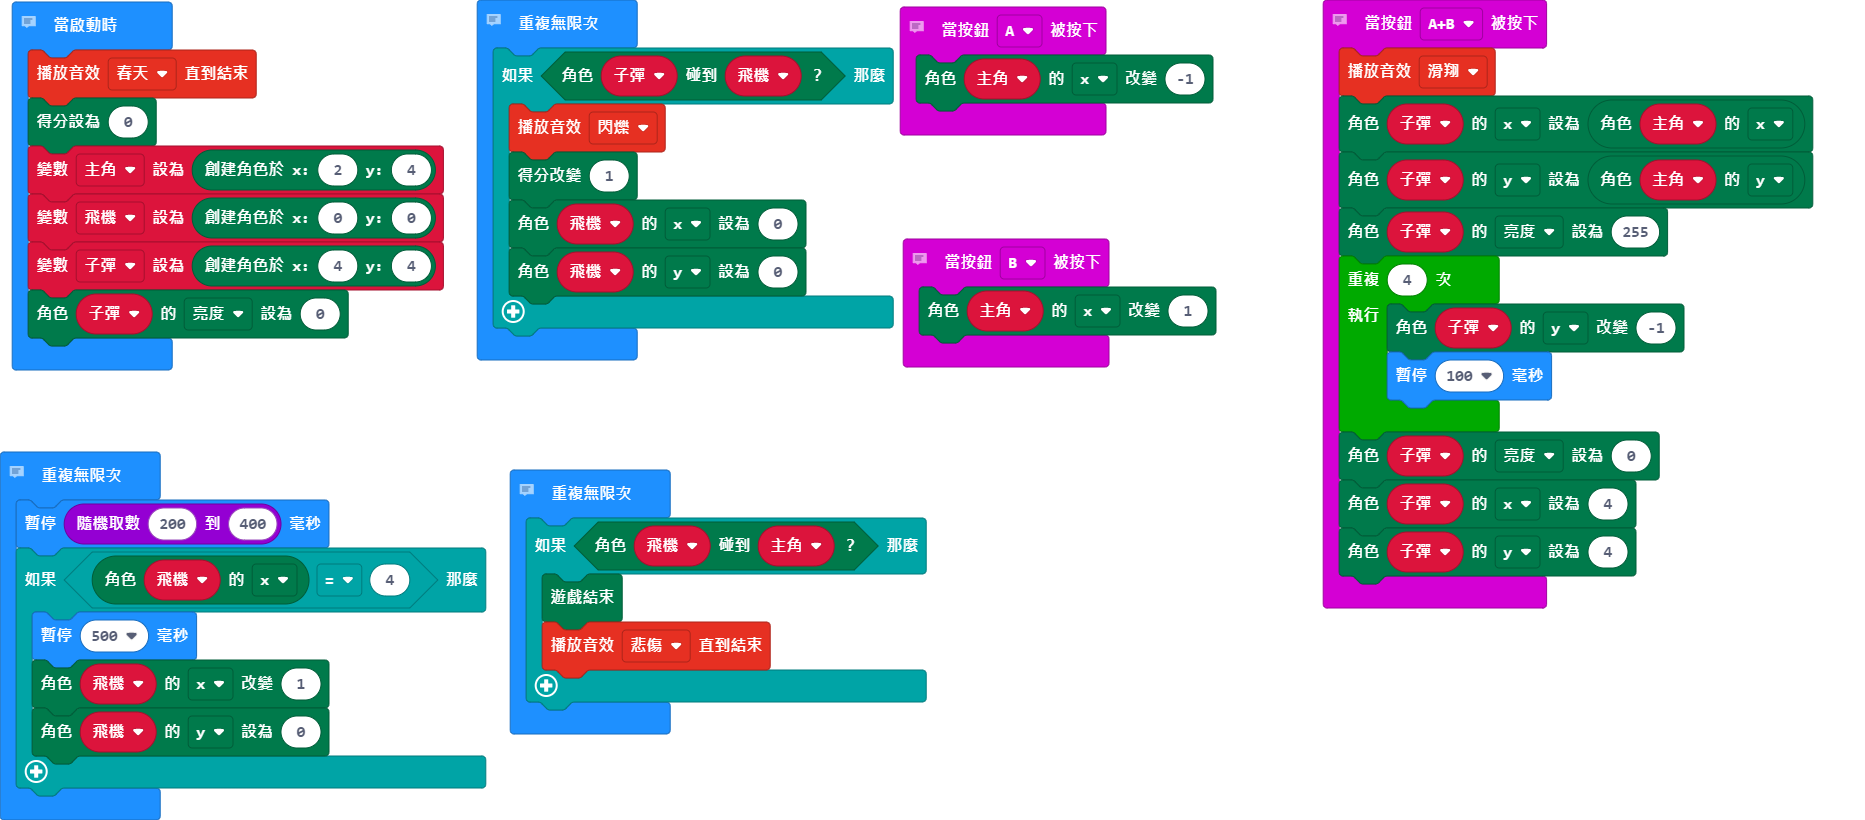
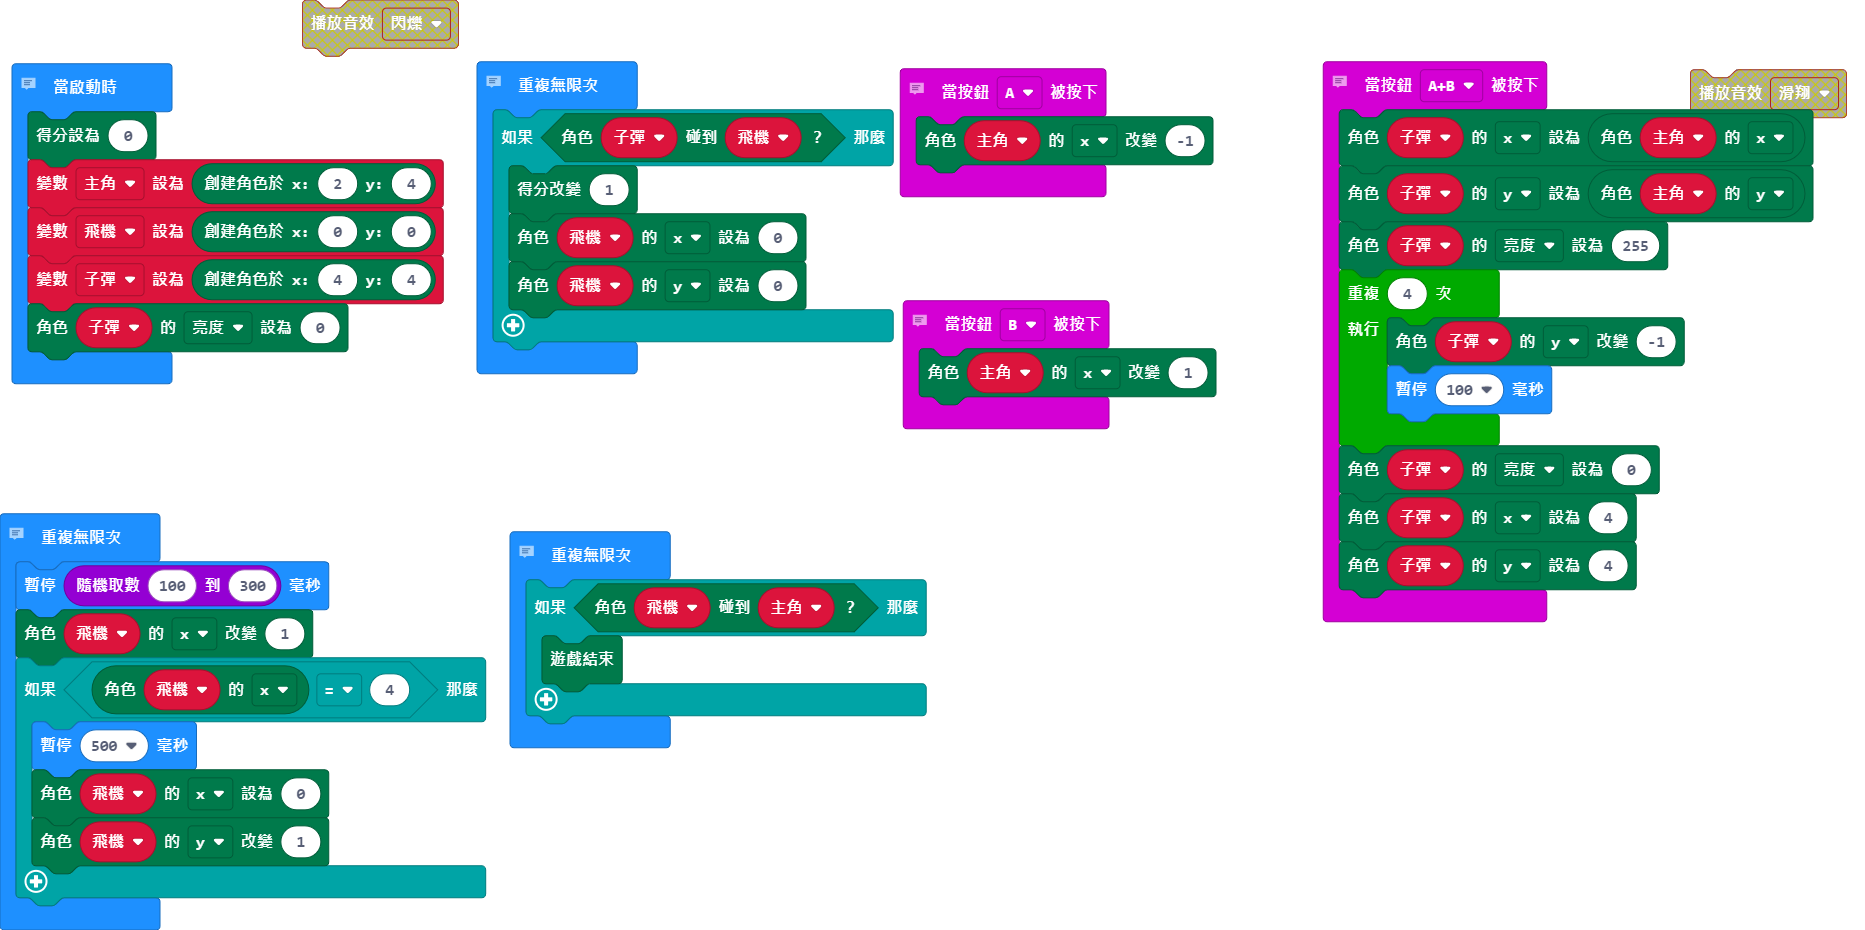
更新 main.blocks, main.ts

diff --git a/main.ts b/main.ts
@@ -6,7 +6,6 @@ input.onButtonPressed(Button.A, function () {
 // 先把子彈定位到主角
 // 再發射
 input.onButtonPressed(Button.AB, function () {
-    soundExpression.slide.play()
     子彈.set(LedSpriteProperty.X, 主角.get(LedSpriteProperty.X))
     子彈.set(LedSpriteProperty.Y, 主角.get(LedSpriteProperty.Y))
     子彈.set(LedSpriteProperty.Brightness, 255)
@@ -25,7 +24,6 @@ input.onButtonPressed(Button.B, function () {
 // 設定初始值
 let 子彈: game.LedSprite = null
 let 主角: game.LedSprite = null
-soundExpression.spring.playUntilDone()
 game.setScore(0)
 主角 = game.createSprite(2, 4)
 let 飛機 = game.createSprite(0, 0)
@@ -34,7 +32,6 @@ let 飛機 = game.createSprite(0, 0)
 // 打到飛機就加分
 basic.forever(function () {
     if (子彈.isTouching(飛機)) {
-        soundExpression.twinkle.play()
         game.addScore(1)
         飛機.set(LedSpriteProperty.X, 0)
         飛機.set(LedSpriteProperty.Y, 0)
@@ -42,17 +39,17 @@ basic.forever(function () {
 })
 // 飛機移動，速度不固定
 basic.forever(function () {
-    basic.pause(randint(200, 400))
+    basic.pause(randint(100, 300))
+    飛機.change(LedSpriteProperty.X, 1)
     if (飛機.get(LedSpriteProperty.X) == 4) {
         basic.pause(500)
-        飛機.change(LedSpriteProperty.X, 1)
-        飛機.set(LedSpriteProperty.Y, 0)
+        飛機.set(LedSpriteProperty.X, 0)
+        飛機.change(LedSpriteProperty.Y, 1)
     }
 })
 // 被打就結束
 basic.forever(function () {
     if (飛機.isTouching(主角)) {
         game.gameOver()
-        soundExpression.sad.playUntilDone()
     }
 })
